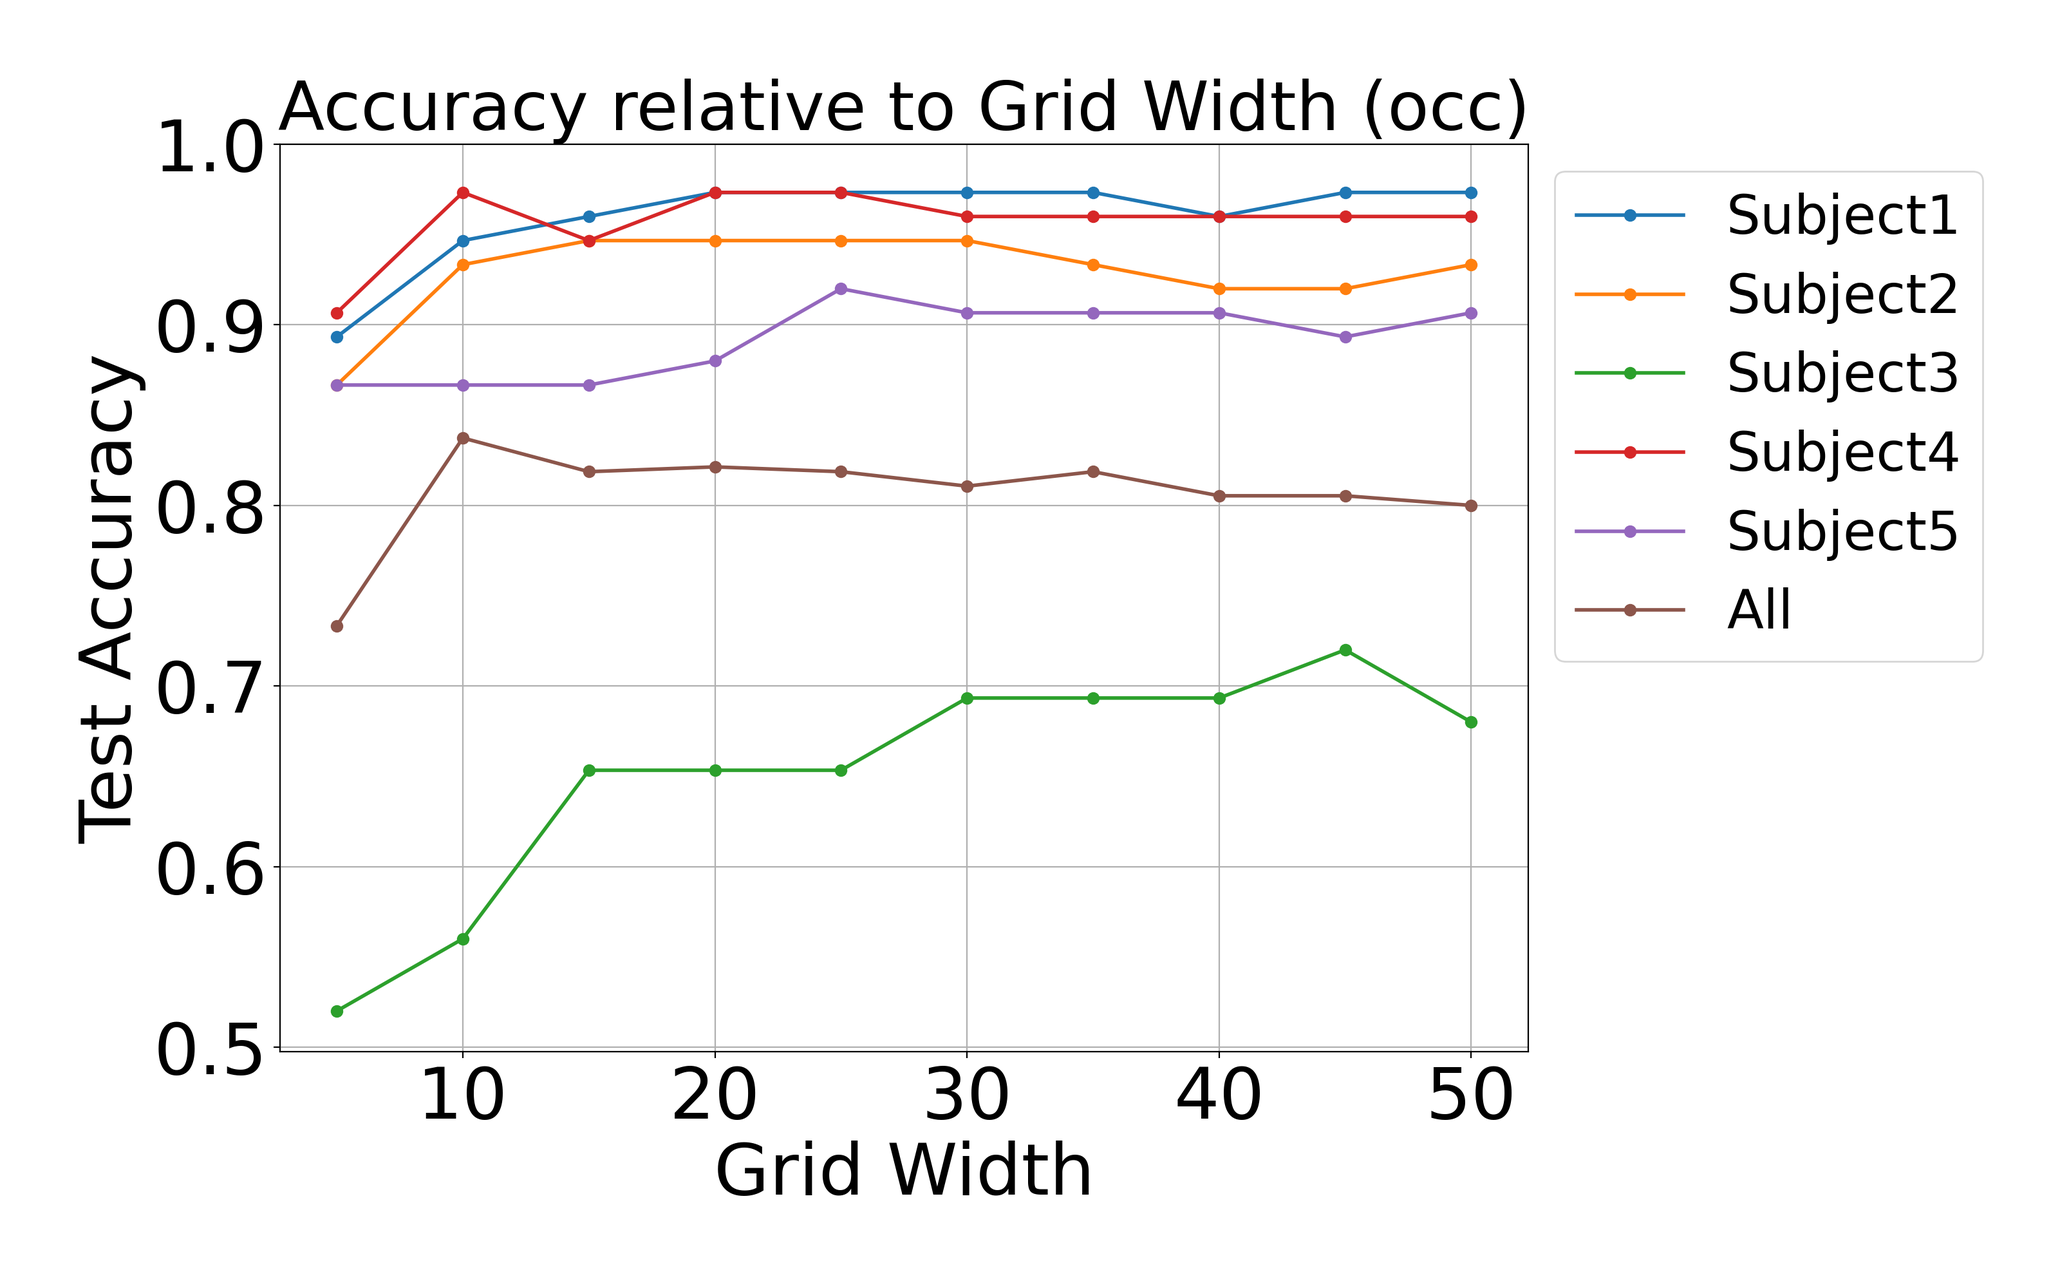
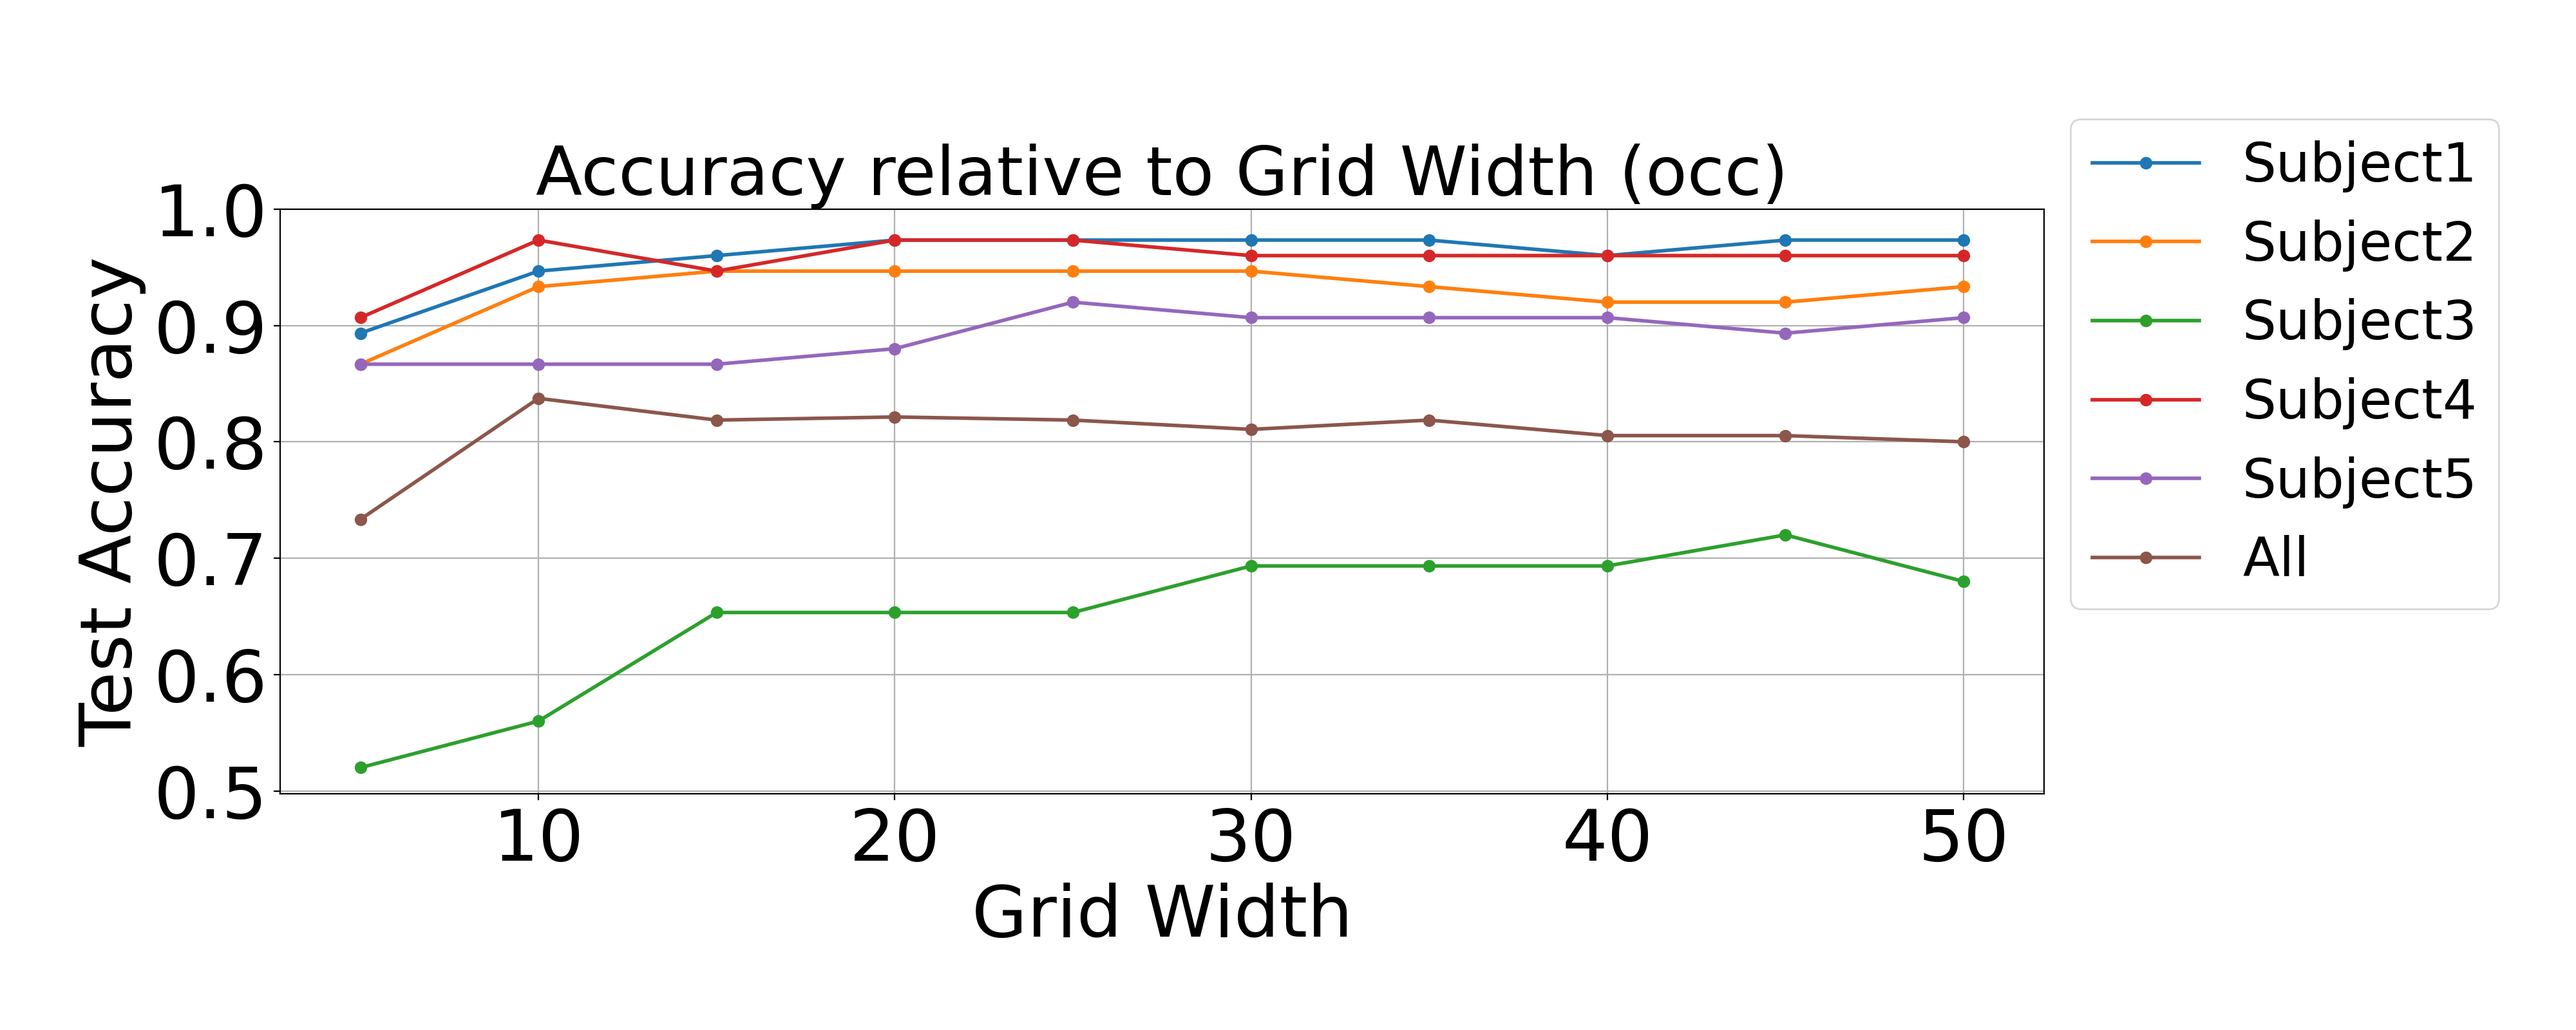
スライド用資料作成②

diff --git a/RealSense/PLYgraph.py b/RealSense/PLYgraph.py
@@ -5,7 +5,7 @@ import matplotlib.pyplot as plt
 # 読み込む PLY ファイル名
 #PLY_PATH = "NT/raw_ply/A/face_3cams_geom_merged_-3deg_20260123_115425.ply" # 元の顔全体点群（3台カメラ合成・色付き）
 #PLY_PATH = "PLY/YR/A_face/face_3cams_geom_merged_camcolor_3deg_20260110_183612.ply" # 元の顔全体点群（カメラ1台分・色付き）
-PLY_PATH = "PLY/YR/mouth/U/mouth_2deg_20260110_181941.ply" # 元の口元点群（カメラ1台分・色なし） U/19deg/01062513は入れ替え
+PLY_PATH = "PLY/YR/mouth/A/mouth_3deg_20260110_183612.ply" # 元の口元点群（カメラ1台分・色なし） U/19deg/01062513は入れ替え
 #PLY_PATH = "YR/mouth_ply/I/YR_10.ply" # 元の口元点群（カメラ1台分・色なし）
 #PLY_PATH = "PLY/ml/mouth/mouth_camcolor_0deg_20251226_121815.ply" # 元の口元点群（カメラ1台分・カメラ別色付き）
 

diff --git a/RealSense/AccuracyGrid.py b/RealSense/AccuracyGrid.py
@@ -15,7 +15,7 @@ CSV_LIST = [
 OUT_DIR = Path("./plots_from_multi_csv")
 OUT_DIR.mkdir(parents=True, exist_ok=True)
 
-FIG_W, FIG_H = 16, 10
+FIG_W, FIG_H = 20, 8
 DPI = 200
 AS_PERCENT = False  # Trueなら 0.923 -> 92.3 [%]
 
@@ -120,7 +120,7 @@ def plot_mode(mode_name: str, out_png: Path):
     plt.yticks([0.5,0.6,0.7,0.8,0.9,1.0], fontsize=40)
     plt.title(f"Accuracy relative to Grid Width ({mode_name})", fontsize=38)
     plt.grid(True)
-    plt.legend(bbox_to_anchor=(1, 1), loc="upper left", fontsize=30)
+    #plt.legend(bbox_to_anchor=(1, 1.2), loc="upper left", fontsize=30)
     plt.tight_layout()
 
     if any_plotted:
